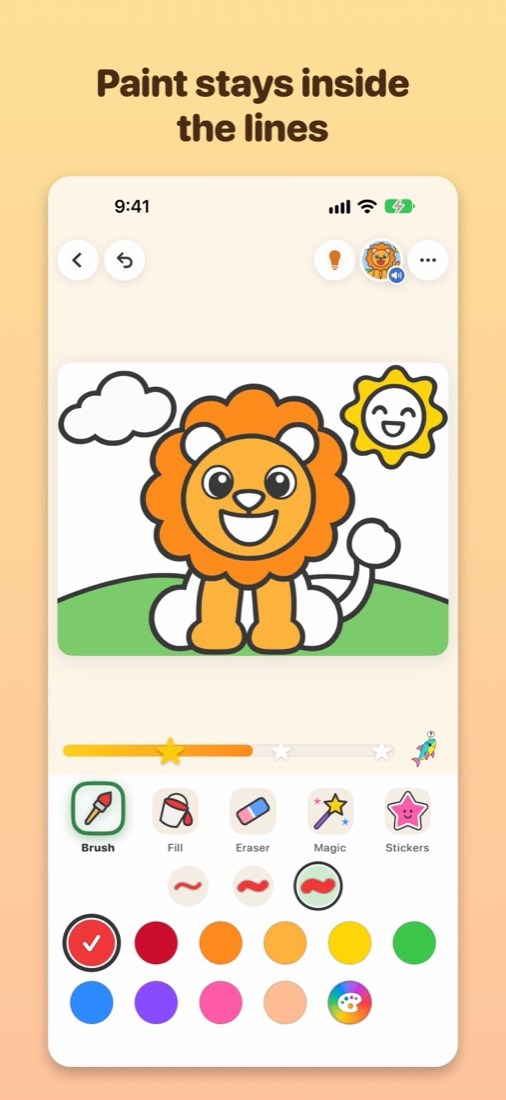
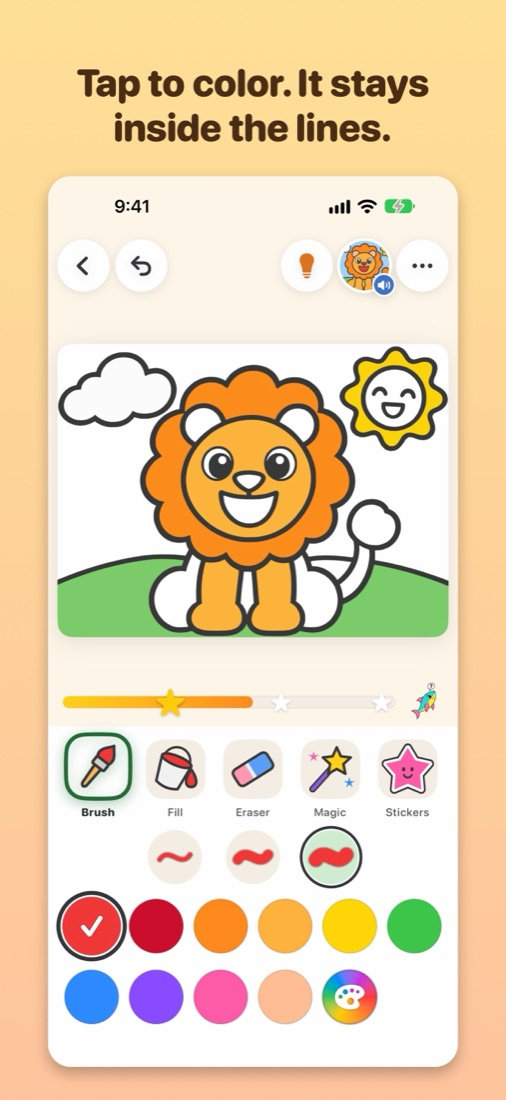
Subscription terms, new screenshots, corrected help and privacy pages

diff --git a/index.html b/index.html
@@ -4,20 +4,23 @@
 <meta charset="utf-8">
 <meta name="viewport" content="width=device-width, initial-scale=1">
 <title>Colordale: a coloring app for ages 3 to 5</title>
-<meta name="description" content="Colordale is a coloring app for small children. 192 pictures, paint that stays inside the lines, pictures that come alive, and no ads or tracking. For iPad and iPhone.">
+<meta name="description" content="Colordale is a coloring app for small children. 192 pictures, 26 of them free, paint that stays inside the lines, pictures that come alive, and no ads or tracking. For iPad and iPhone.">
 <meta property="og:title" content="Colordale: a coloring app for ages 3 to 5">
 <meta property="og:description" content="192 pictures, paint that stays inside the lines, and no ads. For iPad and iPhone.">
 <meta property="og:image" content="https://colordale.com/assets/social.jpg">
 <meta property="og:url" content="https://colordale.com/">
 <meta property="og:type" content="website">
+<meta name="twitter:card" content="summary_large_image">
+<link rel="canonical" href="https://colordale.com/">
 <link rel="icon" href="assets/favicon.png">
 <link rel="apple-touch-icon" href="assets/icon-180.png">
 <link rel="stylesheet" href="style.css">
 </head>
 <body>
+<a class="skip" href="#main">Skip to the page</a>
 
 <header class="wrap top">
-  <a class="brand" href="./"><img src="assets/wordmark.png" alt="Colordale" width="900" height="525"></a>
+  <a class="brand" href="./"><img src="assets/wordmark.png" alt="Colordale" width="480" height="280"></a>
   <nav aria-label="Main">
     <a href="#features">What it does</a>
     <a href="#pictures">Pictures</a>
@@ -26,7 +29,7 @@
   </nav>
 </header>
 
-<main>
+<main id="main">
   <div class="wrap">
     <div class="hero">
       <div>
@@ -35,7 +38,7 @@
         <div class="badges">
           <span class="pill">192 pictures</span>
           <span class="pill">No ads</span>
-          <span class="pill">Everything free</span>
+          <span class="pill">26 pictures free</span>
           <span class="pill">Works offline</span>
         </div>
         <div class="cta">
@@ -98,10 +101,10 @@
     <div class="wrap">
       <p class="kicker">Have a look</p>
       <h2>On iPad and iPhone</h2>
-      <div class="shots" tabindex="0" aria-label="Screenshots of Colordale">
-        <img src="assets/shots/ipad-1_inside_the_lines.jpg" alt="A lion being colored: paint stays inside the lines" width="825" height="1100" loading="lazy">
-        <img src="assets/shots/ipad-2_come_alive.jpg" alt="A finished dolphin picture with confetti: pictures come alive" width="825" height="1100" loading="lazy">
-        <img src="assets/shots/ipad-3_pictures.jpg" alt="The home screen: 192 pictures in 13 categories" width="825" height="1100" loading="lazy">
+      <div class="shots" tabindex="0" role="group" aria-label="Screenshots of Colordale">
+        <img src="assets/shots/ipad-1_inside_the_lines.jpg" alt="A lion being colored: tap to color, and it stays inside the lines" width="825" height="1100" loading="lazy">
+        <img src="assets/shots/ipad-2_pictures.jpg" alt="The home screen: 192 pictures, 26 free to start" width="825" height="1100" loading="lazy">
+        <img src="assets/shots/ipad-3_come_alive.jpg" alt="A finished dolphin picture with confetti: pictures come alive" width="825" height="1100" loading="lazy">
         <img class="phone" src="assets/shots/iphone-5_color_by_number.jpg" alt="The letter A with numbered areas: letters, numbers and color by number" width="506" height="1100" loading="lazy">
         <img src="assets/shots/ipad-4_stickers.jpg" alt="The sticker album: earn a sticker for every picture" width="825" height="1100" loading="lazy">
         <img class="phone" src="assets/shots/iphone-1_inside_the_lines.jpg" alt="Coloring a lion on an iPhone" width="506" height="1100" loading="lazy">
@@ -140,23 +143,23 @@
     </div>
   </section>
 
-  <section id="grown-ups">
+<section id="grown-ups">
     <div class="wrap">
       <div class="grownups">
         <div>
           <p class="kicker">For grown-ups</p>
           <h2>Safe to hand over</h2>
-          <p class="intro">Colordale was built for the App Store's Kids Category, for ages 5 and under. It asks for nothing and sends nothing.</p>
+          <p class="intro">Colordale was built for the App Store's Kids Category, for ages 5 and under. It has no ads, asks for no account and sends nothing.</p>
           <p class="intro"><a href="privacy.html">Read the privacy policy</a></p>
         </div>
         <ul class="checks">
           <li><div><strong>No ads and no tracking</strong><span>Colordale collects no personal information. There are no accounts.</span></div></li>
-          <li><div><strong>Everything included</strong><span>All 192 pictures, every color and every brush are free. There is nothing to buy.</span></div></li>
+          <li><div><strong>Free to start, fair to keep</strong><span>26 pictures are free, two in every category, plus a free picture of the day. Coloring Plus unlocks all 192: $3.99 a month, or $19.99 a year with a 7-day free trial.</span></div></li>
           <li><div><strong>Works offline</strong><span>In the car, on a plane, anywhere. Pictures stay on the device.</span></div></li>
           <li><div><strong>A grown-ups area behind a gate</strong><span>Sound settings, sharing, saving and printing are behind a question a small child can't answer.</span></div></li>
           <li><div><strong>A daily play-time limit</strong><span>Set 15 to 60 minutes. A gentle "time for a break" appears when it's used up.</span></div></li>
           <li><div><strong>Print a page to color on paper</strong><span>Any drawing prints as a blank page, or print the picture your child colored.</span></div></li>
-          <li><div><strong>Made to be accessible</strong><span>Upright or sideways, light and dark mode, VoiceOver and larger text.</span></div></li>
+          <li><div><strong>Made to fit your device</strong><span>Upright or sideways, in light and dark mode, and it respects the Reduce Motion setting.</span></div></li>
         </ul>
       </div>
     </div>
@@ -164,7 +167,7 @@
 
   <div class="wrap">
     <div class="closing">
-      <img src="assets/logo-stacked.png" alt="" width="640" height="605">
+      <img src="assets/logo-stacked.png" alt="" width="340" height="321">
       <h2>Welcome to Colordale</h2>
       <p>A little valley full of color to explore, one picture at a time.</p>
       <div class="cta">

diff --git a/support.html b/support.html
@@ -4,14 +4,16 @@
 <meta charset="utf-8">
 <meta name="viewport" content="width=device-width, initial-scale=1">
 <title>Colordale Support</title>
+<link rel="canonical" href="https://colordale.com/support.html">
 <link rel="icon" href="assets/favicon.png">
 <link rel="apple-touch-icon" href="assets/icon-180.png">
 <link rel="stylesheet" href="style.css">
 </head>
 <body>
+<a class="skip" href="#main">Skip to the page</a>
 
 <header class="wrap top">
-  <a class="brand" href="./"><img src="assets/wordmark.png" alt="Colordale" width="900" height="525"></a>
+  <a class="brand" href="./"><img src="assets/wordmark.png" alt="Colordale" width="480" height="280"></a>
   <nav aria-label="Main">
     <a href="./">Home</a>
     <a href="support.html">Help</a>
@@ -19,7 +21,7 @@
   </nav>
 </header>
 
-<main class="wrap">
+<main class="wrap" id="main">
 <article class="page">
 <h1>Colordale Support</h1>
 <p>Need help? Email <a href="mailto:support@webindexa.com">support@webindexa.com</a> and we'll get back to you.</p>
@@ -28,10 +30,21 @@
 <p>Tap <strong>Grown-ups</strong> on the home screen and answer the grown-up question. There you can turn the sounds and the voice on or off, set the volume, set a daily play-time limit, adjust color brightness, and delete pictures.</p>
 
 <h2>Is Colordale free?</h2>
-<p>Yes. Every picture, color and brush is included, with no ads.</p>
+<p>It is free to download, with no ads. 26 pictures are free for good: the first two in every category. The picture of the day is free for everyone on its day too. The other pictures show a small lock and need <strong>Coloring Plus</strong>, a subscription: $3.99 a month, or $19.99 a year with a 7-day free trial (prices in US dollars; yours are shown in the app).</p>
+<h2>How do I subscribe, and how do I cancel?</h2>
+<p>Tap a picture with a lock, then <strong>I'm a grown-up</strong>, and answer the grown-up question; or tap <strong>Grown-ups</strong> on the home screen, then <strong>See Plans</strong>. Apple handles the payment through your Apple Account. To cancel, open <strong>Grown-ups</strong> and tap <strong>Manage Subscription</strong>, or go to Settings, your name, Subscriptions. Cancel at least a day before the trial or the period ends to avoid the next charge.</p>
+<h2>What happens to my child's pictures if I cancel?</h2>
+<p>Nothing is deleted. Pictures of locked drawings stay in My Gallery; to keep coloring them, a drawing has to be free or Coloring Plus active again.</p>
+<h2>I was charged and want a refund</h2>
+<p>Apple handles every payment and refund; we can't see or refund charges ourselves. Ask at <a href="https://reportaproblem.apple.com">reportaproblem.apple.com</a>, choose the charge and "Request a refund".</p>
+<h2>I subscribed, but pictures are still locked</h2>
+<p>Open <strong>Grown-ups</strong> and tap <strong>Restore Purchases</strong>, on a device signed in with the Apple Account that subscribed. With Family Sharing, the organizer's purchase sharing must be on. A purchase "waiting for approval" unlocks once the family organizer approves it.</p>
 
 <h2>How do I save, share or print a picture?</h2>
-<p>Open the picture from <strong>My Gallery</strong> and tap <strong>Share</strong> or <strong>Print</strong>. A grown-up question comes first. Share also offers <strong>Save Image</strong> to put the picture in Photos. Print can print the colored picture or a blank page to color with crayons.</p>
+<p>In <strong>My Gallery</strong>, tap the <strong>…</strong> button on a picture, then <strong>Share</strong> or <strong>Print</strong>. A grown-up question comes first. Share also offers <strong>Save Image</strong> to put the picture in Photos.</p>
+<h2>How do I print coloring pages?</h2>
+<p><strong>One picture:</strong> open any drawing, colored or not, tap <strong>More</strong> (the three dots), then <strong>Print</strong>. After the grown-up question you can print the picture as colored, or a blank page to color with crayons.</p>
+<p><strong>Many at once:</strong> tap <strong>Grown-ups</strong> on the home screen, then <strong>Print coloring pages</strong>. Tick whole categories, or tap a category's arrow to pick single pictures, from as many categories as you like, then tap Print. Each picture prints on its own sheet, in black only.</p>
 
 <h2>There's no sound</h2>
 <p>Check that the device isn't on silent and the volume is up. Then open <strong>Grown-ups</strong> and check that the sound and voice switches are on.</p>

diff --git a/style.css b/style.css
@@ -17,7 +17,7 @@
   --green: #35944a;
   --green-deep: #2a7a3c;
   --purple: #8561cc;
-  --orange: #b55e1a;
+  --orange: #a85616;
   --card-shadow: 0 10px 30px rgba(120, 80, 30, 0.14);
   --radius: 28px;
 }
@@ -33,7 +33,10 @@ body {
 }
 img { max-width: 100%; height: auto; display: block; }
 a { color: var(--green-deep); }
-a:focus-visible, .button:focus-visible { outline: 3px solid var(--blue); outline-offset: 3px; border-radius: 8px; }
+/* The text color, so the ring shows on cream, on the sunny panels and in the dark (the blue was 2.4:1 on cream). */
+a:focus-visible, .button:focus-visible, .shots:focus-visible { outline: 3px solid var(--ink); outline-offset: 3px; border-radius: 8px; }
+.skip { position: absolute; left: -9999px; top: 8px; background: var(--paper); color: var(--ink); padding: 10px 16px; border-radius: 12px; font-weight: 800; z-index: 10; }
+.skip:focus { left: 8px; }
 h1, h2, h3 { line-height: 1.15; margin: 0; }
 p { margin: 0; }
 
@@ -171,6 +174,49 @@ footer a:hover { text-decoration: underline; }
 .page .muted { color: var(--muted); }
 .page .summary { background: #e9f6e6; border-radius: 18px; padding: 16px 20px; margin-top: 18px; }
 
+/* ---------- Free printable pages ---------- */
+.title { font-size: clamp(32px, 4.6vw, 54px); font-weight: 900; margin-top: 8px; max-width: 16em; }
+main > .wrap > .kicker { margin-top: 18px; }
+main > .wrap > .intro { margin-top: 14px; max-width: 38em; color: var(--muted); font-size: 19px; }
+.top nav a[aria-current="page"] { background: rgba(0, 0, 0, 0.07); }
+.sheets { list-style: none; margin: 34px 0 0; padding: 0; display: grid; grid-template-columns: repeat(5, 1fr); gap: 18px; }
+.sheet a {
+  display: flex; flex-direction: column; height: 100%; background: var(--paper); border-radius: 22px; padding: 12px 12px 14px;
+  box-shadow: var(--card-shadow); text-decoration: none; color: var(--ink);
+}
+/* The pictures are black outlines on white paper, also in the dark appearance. */
+.sheet img { border-radius: 12px; background: #fff; border: 2px solid rgba(0, 0, 0, 0.08); }
+.sheet .name { font-weight: 900; font-size: 18px; margin-top: 12px; line-height: 1.2; }
+.sheet .go {
+  margin-top: auto; align-self: flex-start; background: #2a7a3c; color: #fff; font-weight: 800; font-size: 15px;
+  padding: 6px 16px; border-radius: 999px;
+}
+.sheet .name + .go { margin-top: 10px; }
+.sheet a:hover { transform: translateY(-3px); transition: transform 0.15s ease; }
+.tips { display: grid; grid-template-columns: 1.2fr 1fr; gap: 20px; margin-top: 36px; }
+.tips > div { background: var(--paper); border-radius: var(--radius); padding: 26px; box-shadow: var(--card-shadow); }
+.tips h2 { font-size: 22px; font-weight: 900; }
+.tips ul { margin: 10px 0 0; padding-left: 20px; }
+.tips li { margin-top: 6px; }
+.tips p { margin-top: 10px; }
+.tips li, .tips p { color: var(--muted); font-size: 17px; }
+.print-teaser {
+  background: var(--paper); border-radius: 40px; padding: clamp(24px, 4vw, 44px); box-shadow: var(--card-shadow);
+  display: grid; grid-template-columns: 0.8fr 1.2fr; gap: clamp(20px, 4vw, 48px); align-items: center;
+}
+.print-teaser img { border-radius: 16px; background: #fff; border: 2px solid rgba(0, 0, 0, 0.08); transform: rotate(-3deg); box-shadow: 0 8px 20px rgba(120, 80, 30, 0.16); }
+.print-teaser h2 { margin-top: 8px; }
+@media (max-width: 900px) {
+  .sheets { grid-template-columns: repeat(3, 1fr); }
+  .tips, .print-teaser { grid-template-columns: 1fr; }
+  .print-teaser img { max-width: 360px; margin-inline: auto; }
+}
+@media (max-width: 600px) {
+  .sheets { grid-template-columns: repeat(2, 1fr); gap: 12px; }
+  .sheet .name { font-size: 16px; }
+}
+@media (prefers-reduced-motion: reduce) { .sheet a:hover { transform: none; transition: none; } }
+
 /* ---------- Smaller screens ---------- */
 @media (max-width: 900px) {
   .hero, .grownups { grid-template-columns: 1fr; }
@@ -196,6 +242,7 @@ footer a:hover { text-decoration: underline; }
     --orange: #ffb067; --card-shadow: 0 10px 30px rgba(0, 0, 0, 0.45);
   }
   .top nav a:hover { background: rgba(255, 255, 255, 0.10); }
+  .top nav a[aria-current="page"] { background: rgba(255, 255, 255, 0.12); }
   .chip { box-shadow: none; }
   .page .summary { background: #24352a; }
   /* The one-line logo has white letters with dark outlines: it needs a light plate behind it. */

diff --git a/privacy.html b/privacy.html
@@ -4,14 +4,16 @@
 <meta charset="utf-8">
 <meta name="viewport" content="width=device-width, initial-scale=1">
 <title>Colordale Privacy Policy</title>
+<link rel="canonical" href="https://colordale.com/privacy.html">
 <link rel="icon" href="assets/favicon.png">
 <link rel="apple-touch-icon" href="assets/icon-180.png">
 <link rel="stylesheet" href="style.css">
 </head>
 <body>
+<a class="skip" href="#main">Skip to the page</a>
 
 <header class="wrap top">
-  <a class="brand" href="./"><img src="assets/wordmark.png" alt="Colordale" width="900" height="525"></a>
+  <a class="brand" href="./"><img src="assets/wordmark.png" alt="Colordale" width="480" height="280"></a>
   <nav aria-label="Main">
     <a href="./">Home</a>
     <a href="support.html">Help</a>
@@ -19,10 +21,10 @@
   </nav>
 </header>
 
-<main class="wrap">
+<main class="wrap" id="main">
 <article class="page">
 <h1>Colordale Privacy Policy</h1>
-<p class="muted">Last updated: November 15, 2026</p>
+<p class="muted">Last updated: November 17, 2026</p>
 
 <p class="summary"><strong>In short:</strong> Colordale collects nothing. There are no accounts, no ads, no analytics and no tracking, and the app doesn't connect to our servers. Your child's pictures stay on your device.</p>
 
@@ -43,7 +45,7 @@
 <p>A grown-up can share a picture, save it to Photos or print it. Each of these first asks a grown-up question that young children are unlikely to answer. The picture then goes only where the grown-up sends it, using the device's own share sheet or AirPrint. To save to Photos, the app asks only for permission to <em>add</em> pictures; it can never see or read your photo library.</p>
 
 <h2>Purchases</h2>
-<p>Colordale is currently free, with every picture included. If an optional subscription is offered in the future, it will be available only in the grown-ups area, behind the grown-up question, and handled entirely by Apple through your Apple Account. We would never see your name or payment details.</p>
+<p>Colordale is free to download, and 26 pictures are free to keep. The others need Coloring Plus, an optional subscription. It can be bought only behind the grown-up question, and the payment is handled entirely by Apple through your Apple Account: we never see your name, your payment details or your Apple Account. The app reads only what Apple keeps on the device about the subscription: which plan it is, when it ends and whether it is in its free trial. It does not send that anywhere.</p>
 
 <h2>Links</h2>
 <p>Links that leave the app, such as this page, appear only in the grown-ups area, behind the grown-up question.</p>
